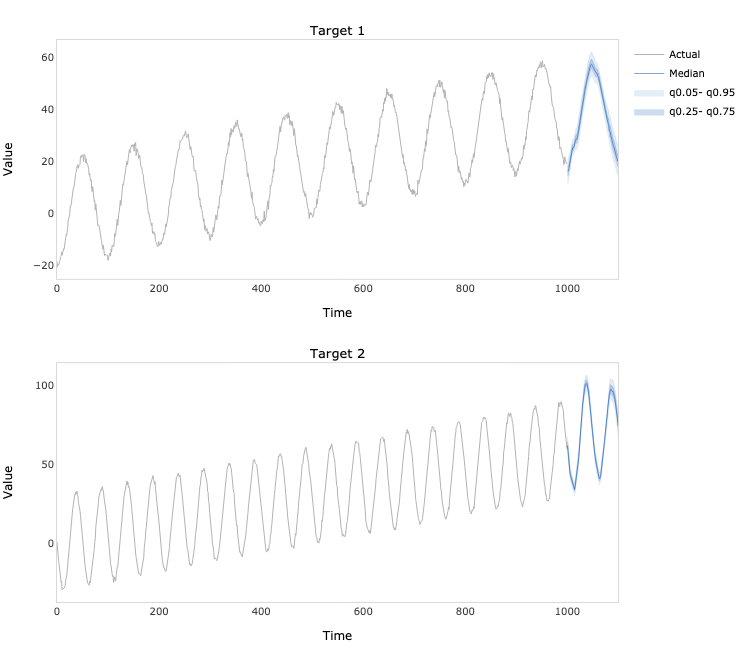
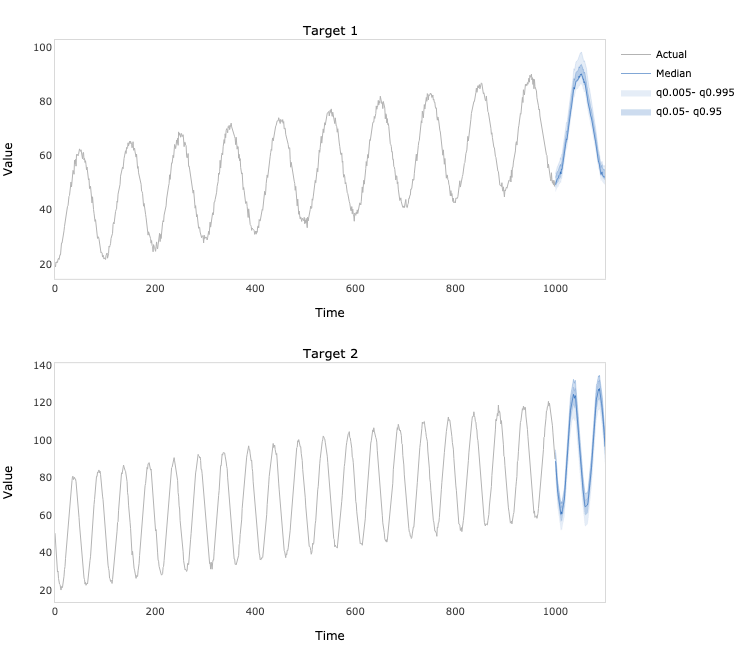
update README

diff --git a/example/example.py b/example/example.py
@@ -4,10 +4,10 @@ from deep_tcn_tensorflow.model import DeepTCN
 # Generate two time series
 N = 1000
 t = np.linspace(0, 1, N)
-e = np.random.multivariate_normal(mean=[0, 0], cov=[[1, 0.5], [0.5, 1]], size=N)
-x = 40 * t + 20 * np.cos(2 * np.pi * (10 * t - 0.5)) + e[:, 0]
-z = 60 * t + 30 * np.sin(2 * np.pi * (20 * t - 0.5)) + e[:, 1]
-y = np.hstack([x.reshape(- 1, 1), z.reshape(- 1, 1)])
+e = np.random.multivariate_normal(mean=[0, 0], cov=[[1, 0.25], [0.25, 1]], size=N)
+a = 40 + 30 * t + 20 * np.cos(2 * np.pi * (10 * t - 0.5)) + e[:, 0]
+b = 50 + 40 * t + 30 * np.sin(2 * np.pi * (20 * t - 0.5)) + e[:, 1]
+y = np.hstack([a.reshape(- 1, 1), b.reshape(- 1, 1)])
 
 # Fit the model
 model = DeepTCN(
@@ -15,17 +15,17 @@ model = DeepTCN(
     x=None,
     forecast_period=100,
     lookback_period=200,
-    quantiles=[0.05, 0.25, 0.5, 0.75, 0.95],
-    filters=8,
+    quantiles=[0.005, 0.05, 0.5, 0.95, 0.995],
+    filters=4,
     kernel_size=3,
-    dilation_rates=[1, 2, 4],
-    loss='parametric'
+    dilation_rates=[1, 2],
+    loss='nonparametric'
 )
 
 model.fit(
     learning_rate=0.01,
     batch_size=64,
-    epochs=100,
+    epochs=200,
 )
 
 # Plot the in-sample predictions

diff --git a/deep_tcn_tensorflow/modules.py b/deep_tcn_tensorflow/modules.py
@@ -40,7 +40,7 @@ def encoder(encoder_input, filters, kernel_size, dilation_rate):
     # Adjust the width of the encoder input if it is different from the width of
     # the encoder output, see Section 3.4 in https://arxiv.org/abs/1803.01271.
     if encoder_input.shape[-1] != encoder_output.shape[-1]:
-        encoder_input = Conv1D(filters=1, kernel_size=1, padding='causal')(encoder_input)
+        encoder_input = Conv1D(filters=1, kernel_size=1)(encoder_input)
 
     encoder_output = Add()([encoder_input, encoder_output])
     encoder_output = ReLU()(encoder_output)

diff --git a/README.MD b/README.MD
@@ -20,10 +20,10 @@ from deep_tcn_tensorflow.model import DeepTCN
 # Generate two time series
 N = 1000
 t = np.linspace(0, 1, N)
-e = np.random.multivariate_normal(mean=[0, 0], cov=[[1, 0.5], [0.5, 1]], size=N)
-x = 40 * t + 20 * np.cos(2 * np.pi * (10 * t - 0.5)) + e[:, 0]
-z = 60 * t + 30 * np.sin(2 * np.pi * (20 * t - 0.5)) + e[:, 1]
-y = np.hstack([x.reshape(- 1, 1), z.reshape(- 1, 1)])
+e = np.random.multivariate_normal(mean=[0, 0], cov=[[1, 0.25], [0.25, 1]], size=N)
+a = 40 + 30 * t + 20 * np.cos(2 * np.pi * (10 * t - 0.5)) + e[:, 0]
+b = 50 + 40 * t + 30 * np.sin(2 * np.pi * (20 * t - 0.5)) + e[:, 1]
+y = np.hstack([a.reshape(- 1, 1), b.reshape(- 1, 1)])
 
 # Fit the model
 model = DeepTCN(
@@ -31,17 +31,17 @@ model = DeepTCN(
     x=None,
     forecast_period=100,
     lookback_period=200,
-    quantiles=[0.05, 0.25, 0.5, 0.75, 0.95],
-    filters=8,
+    quantiles=[0.005, 0.05, 0.5, 0.95, 0.995],
+    filters=4,
     kernel_size=3,
-    dilation_rates=[1, 2, 4],
-    loss='parametric'
+    dilation_rates=[1, 2],
+    loss='nonparametric'
 )
 
 model.fit(
     learning_rate=0.01,
     batch_size=64,
-    epochs=100,
+    epochs=200,
 )
 
 # Plot the in-sample predictions
